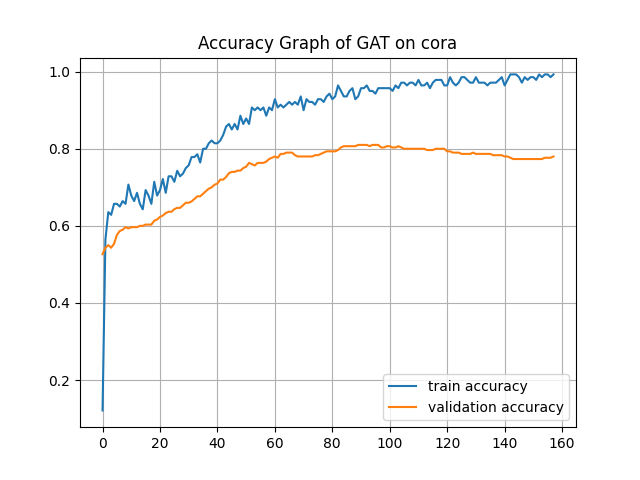
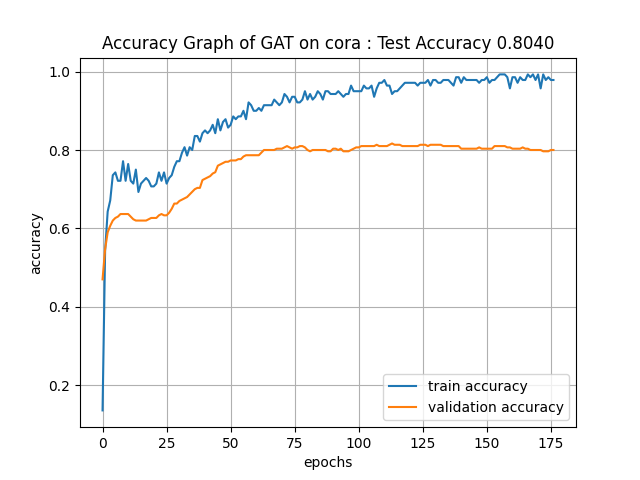
version 1.0

diff --git a/train.py b/train.py
@@ -12,7 +12,7 @@ import torch.nn.functional as F
 import torch.optim as optim 
 from torch.autograd import Variable
 
-from utils import accuracy, load_data, save_checkpoint
+from utils import accuracy, load_data
 from model import GCN, GAT, SpGCN, SpGAT
  
 def main(args):
@@ -83,12 +83,8 @@ def main(args):
             if val_loss < best_loss :
                 best_loss = val_loss
                 epochs_since_improvement = 0
-                save_checkpoint(network, 'checkpoints/best.pt')
-            else :
+            else:
                 epochs_since_improvement += 1
-        
-        if (epoch + 1) % args.save_every == 0:
-            save_checkpoint(network, 'checkpoints/epoch_%d.pt'%(epoch+1))
 
         train_losses.append(train_loss.item())
         train_accs.append(train_acc.item())
@@ -113,6 +109,8 @@ def main(args):
     fig, ax = plt.subplots()
     ax.plot(train_losses, label = 'train loss')
     ax.plot(val_losses, label = 'validation loss')
+    ax.set_xlabel('epochs')
+    ax.set_ylabel('cross entropy loss')
     ax.legend()
 
     ax.set(title="Loss Curve of " + args.model + " on " + args.dataset)
@@ -124,9 +122,11 @@ def main(args):
     fig, ax = plt.subplots()
     ax.plot(train_accs, label = 'train accuracy')
     ax.plot(val_accs, label = 'validation accuracy')
+    ax.set_xlabel('epochs')
+    ax.set_ylabel('accuracy')
     ax.legend()
 
-    ax.set(title="Accuracy Graph of " + args.model + " on " + args.dataset)
+    ax.set(title="Accuracy Graph of " + args.model + " on " + args.dataset + " : Test Accuracy %.4f"%(test_acc))
     ax.grid()
 
     fig.savefig("results/"+args.model+"_"+args.dataset+"_accuracy.png")

diff --git a/utils.py b/utils.py
@@ -20,9 +20,16 @@ def load_data(dataset="cora"):
         adj = sp.coo_matrix((np.ones(edges.shape[0]), (edges[:,0], edges[:,1])), shape=(labels.shape[0], labels.shape[0]), dtype=np.float32)
 
     elif dataset == 'citeseer':
-        # TODO step 3.
-        pass
-    
+        idx_features_labels = np.genfromtxt("{}{}.content".format(path,dataset), dtype=np.dtype(str))
+        features = sp.csr_matrix(idx_features_labels[:,1:-1], dtype=np.float32)
+        labels = encode_onehot(idx_features_labels[:,-1])
+
+        idx = np.array(idx_features_labels[:,0],dtype=np.dtype(str))
+        idx_map = {j: i for i,j in enumerate(idx)}
+        edges_unordered = np.genfromtxt("{}{}.cites".format(path,dataset), dtype=np.dtype(str))
+        edges = np.array(list(map(idx_map.get, edges_unordered.flatten())), dtype=np.dtype(str)).reshape(edges_unordered.shape)
+        adj = sp.coo_matrix((np.ones(edges.shape[0]), (edges[:,0], edges[:,1])), shape=(labels.shape[0], labels.shape[0]), dtype=np.float32)
+
     adj = adj + adj.T.multiply(adj.T>adj) - adj.multiply(adj.T>adj)
     features = normalize_features(features)
     adj = normalize_adj(adj+sp.eye(adj.shape[0]))
@@ -69,11 +76,3 @@ def encode_onehot(labels):
     classes_dict = {c: np.identity(len(classes))[i,:] for i, c in enumerate(classes)}
     labels_onehot = np.array(list(map(classes_dict.get, labels)), dtype=np.int32)
     return labels_onehot 
-
-def save_checkpoint(model, path):
-    model_state = {
-        'state_dict' : model.state_dict()
-    }
-    
-    torch.save(model_state, path)
-    print('A check point has been generated : ' + path)

diff --git a/layer.py b/layer.py
@@ -57,6 +57,7 @@ class Attention(nn.Module):
         return F.elu(h_prime) # [N, F']
 
 class GraphAttentionLayer(nn.Module):
+    # multi head attention
     def __init__(self, in_features, out_features, num_heads, alpha, concat=True):
         super(GraphAttentionLayer, self).__init__()
         self.concat = concat
@@ -66,6 +67,7 @@ class GraphAttentionLayer(nn.Module):
         # input (= X) : a tensor with size [N, F]
 
         if self.concat :
+            # concatenate
             outputs = []
             for attention in self.attentions:
                 outputs.append(attention(input, adj))
@@ -73,6 +75,7 @@ class GraphAttentionLayer(nn.Module):
             return torch.cat(outputs, dim = -1) # [N, KF']
 
         else :
+            # average
             output = None
             for attention in self.attentions:
                 if output == None:
